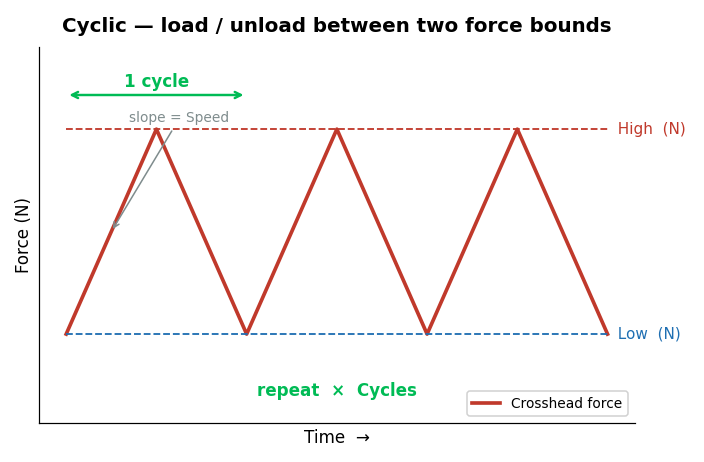
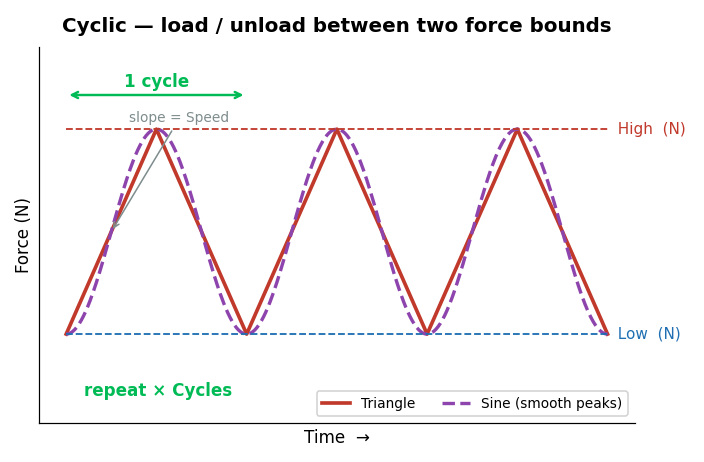
Cyclic: add Triangle/Sine waveform selector
CyclicPolicy gains waveform='triangle'|'sine'; sine eases speed by load
fraction (spd=speed*sin(pi*frac)) so it crawls at each bound -> smooth
rounded cycles, still exactly within Low/High. Sim-checked both (3 cycles,
6 reversals; sine eases 0.036->0.5 mid-stroke). Cyclic help diagram now
overlays both waveforms. UI selector wiring is in the unversioned main.py.

diff --git a/Software/UTM_PyQt6/control_policies.py b/Software/UTM_PyQt6/control_policies.py
@@ -15,6 +15,7 @@ Design contract (keeps hardware I/O and safety in the app, logic here):
 Validate every policy in `control_sim.py` (replay a CSV, or a spring plant) BEFORE any rig run.
 No PyQt / hardware / matplotlib imports here — just logic, so it is unit-testable and safe.
 """
+import math
 from dataclasses import dataclass, field
 from typing import Optional, List, Tuple
 
@@ -133,11 +134,22 @@ class StrainRatePolicy(ControlPolicy):
 
 
 class CyclicPolicy(ControlPolicy):
-    """Load–unload between two FORCE bounds for N cycles (hysteresis / stiffness degradation)."""
+    """Load–unload between two FORCE bounds for N cycles (hysteresis / stiffness degradation).
+
+    `waveform`:
+      • 'triangle' — constant-speed ramps up and down (sharp velocity reversal at each peak).
+      • 'sine'     — the speed is eased by the load fraction, spd = speed·sin(π·frac), so it slows to
+                     a crawl approaching each bound and is fastest at mid-load. This rounds the peaks
+                     (no velocity kink) → smooth, sine-shaped cycles, better for viscoelastic
+                     hysteresis loops. LOW frequency only — the rig can't do fatigue-rate cycling.
+    Both respect the Low/High bounds EXACTLY (same reversal logic); the period is emergent (set by
+    speed + specimen stiffness), as with the triangle."""
     name = "cyclic"
 
-    def __init__(self, f_low: float, f_high: float, cycles: int, speed: float = 0.1):
+    def __init__(self, f_low: float, f_high: float, cycles: int, speed: float = 0.1,
+                 waveform: str = "triangle"):
         self.f_low, self.f_high, self.cycles, self.speed = f_low, f_high, cycles, speed
+        self.waveform = waveform
         self.dir = "tension"
         self.done_cycles = 0
 
@@ -149,10 +161,15 @@ class CyclicPolicy(ControlPolicy):
             self.done_cycles += 1
             if self.done_cycles >= self.cycles:
                 return Command(0, "hold", done=True, message=f"{self.cycles} cycles complete")
-        return Command(self.speed, self.dir, message=f"cycle {self.done_cycles + 1}/{self.cycles}")
+        spd = self.speed
+        if self.waveform == "sine":
+            frac = (s.load - self.f_low) / max(1e-6, self.f_high - self.f_low)
+            frac = min(1.0, max(0.0, frac))
+            spd = max(0.01, self.speed * math.sin(math.pi * frac))   # ease to a crawl at each bound
+        return Command(spd, self.dir, message=f"cycle {self.done_cycles + 1}/{self.cycles}")
 
     def start_message(self) -> str:
-        return f"Cyclic {self.f_low:.0f}-{self.f_high:.0f} N x{self.cycles} @ {self.speed:.3f} mm/s"
+        return f"Cyclic {self.waveform} {self.f_low:.0f}-{self.f_high:.0f} N x{self.cycles} @ {self.speed:.3f} mm/s"
 
 
 class StaircasePolicy(ControlPolicy):

diff --git a/Software/UTM_PyQt6/generate_mode_help.py b/Software/UTM_PyQt6/generate_mode_help.py
@@ -47,15 +47,20 @@ def cyclic():
     t = 0
     for _ in range(ncyc):
         xs += [t + 1, t + 2]; ys += [hi, lo]; t += 2
-    ax.plot(xs, ys, color=RED, lw=2.4, label="Crosshead force")
+    ax.plot(xs, ys, color=RED, lw=2.4, label="Triangle")
+    # sine waveform between the same bounds (eases at each peak)
+    tg = np.linspace(0, t, 500)
+    mid = (lo + hi) / 2; amp = (hi - lo) / 2
+    sine = mid - amp * np.cos(np.pi * tg)      # starts at Low, peaks at High each half-period
+    ax.plot(tg, sine, color="#8e44ad", lw=2.2, ls="--", label="Sine (smooth peaks)")
     _hline(ax, hi, 0, t, "High  (N)", RED)
     _hline(ax, lo, 0, t, "Low  (N)", BLUE)
-    ax.legend(loc="lower right", fontsize=9, framealpha=0.9)
+    ax.legend(loc="lower right", fontsize=9, framealpha=0.9, ncol=2)
     # one cycle bracket
     ax.annotate("", xy=(0, hi + 0.5), xytext=(2, hi + 0.5),
                 arrowprops=dict(arrowstyle="<->", color="#0b5", lw=1.6))
     ax.text(1, hi + 0.62, "1 cycle", ha="center", color="#0b5", fontsize=11, fontweight="bold")
-    ax.text(t / 2, lo - 0.9, "repeat  ×  Cycles", ha="center", **PARAM)
+    ax.text(0.2, lo - 0.9, "repeat × Cycles", ha="left", **PARAM)
     ax.annotate("slope = Speed", xy=(0.5, (lo + hi) / 2), xytext=(0.7, hi + 0.1),
                 color=GREY, fontsize=9, arrowprops=dict(arrowstyle="->", color=GREY))
     ax.set_ylim(lo - 1.3, hi + 1.2)
